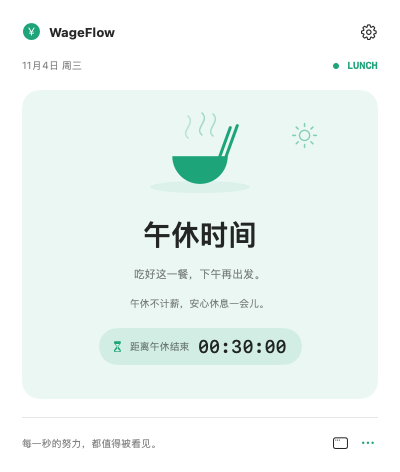
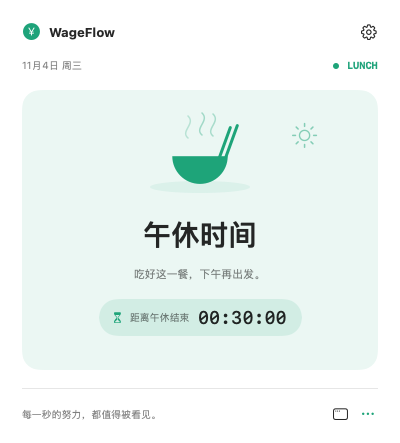
Add eight dashboard themes and trim the lunch page
Move accent palettes into WorkTheme with mint, sunset, iris, sea salt,
coral, amber, sakura and graphite, show them as a 4x2 swatch grid in
settings, and raise the default settings window so the appearance page
fits. Drop the lunch page footnote so the countdown follows the subtitle.

diff --git a/Sources/WageFlow/SettingsPanel.swift b/Sources/WageFlow/SettingsPanel.swift
@@ -215,10 +215,10 @@ struct SettingsPanel: View {
     private var appearance: some View {
         VStack(alignment: .leading, spacing: 18) {
             card("看板配色", icon: "paintpalette") {
-                HStack(spacing: 12) {
-                    theme("薄荷", color: Color(red: 0.13, green: 0.68, blue: 0.52))
-                    theme("落日", color: .orange)
-                    theme("鸢尾", color: .purple)
+                LazyVGrid(columns: Array(repeating: GridItem(.flexible(), spacing: 10), count: 4), spacing: 10) {
+                    ForEach(WorkTheme.all) { theme in
+                        swatch(theme)
+                    }
                 }
                 Text("配色将在保存后应用于看板。").font(.caption).foregroundStyle(.secondary)
             }
@@ -233,19 +233,28 @@ struct SettingsPanel: View {
         }
     }
 
-    private func theme(_ title: String, color: Color) -> some View {
-        Button { editor.draft.theme = title } label: {
-            VStack(spacing: 10) {
-                RoundedRectangle(cornerRadius: 8).fill(color.opacity(0.15))
-                    .frame(height: 54).overlay(Image(systemName: "yensign.circle.fill").font(.title2).foregroundStyle(color))
-                HStack {
-                    Text(title)
-                    Image(systemName: editor.draft.theme == title ? "checkmark.circle.fill" : "circle").foregroundStyle(color)
-                }.font(.callout)
-            }.padding(10).frame(maxWidth: .infinity)
+    private func swatch(_ theme: WorkTheme) -> some View {
+        // Unknown stored names fall back to the default accent, so highlight it too.
+        let selected = WorkTheme.named(editor.draft.theme) == theme
+        return Button { editor.draft.theme = theme.name } label: {
+            VStack(spacing: 8) {
+                RoundedRectangle(cornerRadius: 8).fill(theme.color.opacity(0.15))
+                    .frame(height: 44)
+                    .overlay(Image(systemName: "yensign.circle.fill").font(.title3).foregroundStyle(theme.color))
+                HStack(spacing: 4) {
+                    Text(theme.name).font(.callout).lineLimit(1)
+                    Spacer(minLength: 2)
+                    Image(systemName: selected ? "checkmark.circle.fill" : "circle")
+                        .font(.caption).foregroundStyle(selected ? theme.color : .secondary.opacity(0.6))
+                }
+            }.padding(8).frame(maxWidth: .infinity)
                 .background(Color(nsColor: .controlBackgroundColor), in: RoundedRectangle(cornerRadius: 12))
-                .overlay(RoundedRectangle(cornerRadius: 12).stroke(editor.draft.theme == title ? color : .clear, lineWidth: 2))
-        }.buttonStyle(.plain).accessibilityValue(editor.draft.theme == title ? "已选择" : "未选择")
+                .overlay(RoundedRectangle(cornerRadius: 12)
+                    .stroke(selected ? theme.color : .secondary.opacity(0.15), lineWidth: selected ? 2 : 1))
+        }.buttonStyle(.plain)
+            .help("\(theme.name)配色")
+            .accessibilityLabel("\(theme.name)配色")
+            .accessibilityValue(selected ? "已选择" : "未选择")
     }
 
     private func input(_ title: String, text: Binding<String>, unit: String) -> some View {

diff --git a/Sources/WageFlow/WageFlowApp.swift b/Sources/WageFlow/WageFlowApp.swift
@@ -64,13 +64,7 @@ final class SalaryStore: ObservableObject {
         return WorkSnapshot(settings: effective, now: date, calendar: calendar,
                             isWorkday: month?.days.first(where: { $0.day == c.day })?.isWorkday ?? false)
     }
-    var tint: Color {
-        switch settings.theme {
-        case "落日": return .orange
-        case "鸢尾": return .purple
-        default: return Color(red: 0.13, green: 0.68, blue: 0.52)
-        }
-    }
+    var tint: Color { WorkTheme.named(settings.theme).color }
 }
 
 @main
@@ -187,7 +181,7 @@ final class SalaryAppDelegate: NSObject, NSApplicationDelegate {
             window.title = "WageFlow 设置"
             window.styleMask = [.titled, .closable, .miniaturizable, .resizable]
             window.isReleasedWhenClosed = false
-            window.setContentSize(NSSize(width: 560, height: 650))
+            window.setContentSize(NSSize(width: 560, height: 690))
             window.contentMinSize = NSSize(width: 540, height: 600)
             window.setFrameAutosaveName("WageFlowSettings")
             window.center()
@@ -355,8 +349,6 @@ struct Dashboard: View {
                 .font(.system(size: 30, weight: .semibold, design: .rounded))
             Text("吃好这一餐，下午再出发。")
                 .font(.subheadline).foregroundStyle(.secondary)
-            Text("午休不计薪，安心休息一会儿。")
-                .font(.caption).foregroundStyle(.secondary)
             HStack(spacing: 8) {
                 Image(systemName: "hourglass")
                     .font(.system(size: 12)).foregroundStyle(store.tint)

diff --git a/Sources/WageFlow/WorkTheme.swift b/Sources/WageFlow/WorkTheme.swift
@@ -1,0 +1,27 @@
+import SwiftUI
+
+/// A dashboard accent palette, stored by name so existing settings keep working.
+struct WorkTheme: Identifiable, Equatable {
+    let name: String
+    let color: Color
+
+    var id: String { name }
+
+    static let mint = WorkTheme(name: "薄荷", color: Color(red: 0.13, green: 0.68, blue: 0.52))
+    static let sunset = WorkTheme(name: "落日", color: .orange)
+    static let iris = WorkTheme(name: "鸢尾", color: .purple)
+    static let seaSalt = WorkTheme(name: "海盐", color: Color(red: 0.29, green: 0.53, blue: 0.85))
+    static let coral = WorkTheme(name: "珊瑚", color: Color(red: 0.85, green: 0.40, blue: 0.36))
+    static let amber = WorkTheme(name: "琥珀", color: Color(red: 0.80, green: 0.58, blue: 0.20))
+    static let sakura = WorkTheme(name: "樱花", color: Color(red: 0.83, green: 0.44, blue: 0.62))
+    static let graphite = WorkTheme(name: "石墨", color: Color(red: 0.39, green: 0.45, blue: 0.55))
+
+    static let all: [WorkTheme] = [
+        .mint, .sunset, .iris, .seaSalt, .coral, .amber, .sakura, .graphite
+    ]
+
+    /// Unknown or legacy names keep the default accent instead of failing to load.
+    static func named(_ name: String) -> WorkTheme {
+        all.first { $0.name == name } ?? .mint
+    }
+}

diff --git a/scripts/render-previews.py b/scripts/render-previews.py
@@ -34,13 +34,13 @@ struct PreviewRenderer {
         try render(Dashboard(store: store), name: "dashboard-workday", width: 400, height: 538)
         previewDate = Calendar(identifier: .gregorian).date(from:
             DateComponents(year: 2026, month: 11, day: 4, hour: 12, minute: 30))!
-        try render(Dashboard(store: store), name: "dashboard-lunch", width: 400, height: 472)
+        try render(Dashboard(store: store), name: "dashboard-lunch", width: 400, height: 443)
         previewDate = Calendar(identifier: .gregorian).date(from:
             DateComponents(year: 2026, month: 11, day: 7, hour: 11, minute: 30))!
         try render(Dashboard(store: store), name: "dashboard-restday", width: 400, height: 430)
         for (page, name, height) in [(0, "settings-salary", 650.0),
                                      (1, "settings-schedule", 1030.0),
-                                     (2, "settings-appearance", 650.0)] {
+                                     (2, "settings-appearance", 690.0)] {
             try render(SettingsPanel(store: store, previewPage: page), name: name, width: 560, height: height)
         }
     }

diff --git a/README.md b/README.md
@@ -11,7 +11,7 @@
 - 自动计薪日历，可手动修改日期、重置并保存。
 - 午休时段独立页面，餐碗热气动画与午休结束倒计时。
 - 休息日专属看板，咖啡热气和太阳呼吸动画。
-- 三种配色、金额隐藏及独立桌面看板。
+- 八种配色（薄荷、落日、鸢尾、海盐、珊瑚、琥珀、樱花、石墨）、金额隐藏及独立桌面看板。
 
 ## 预览
 
